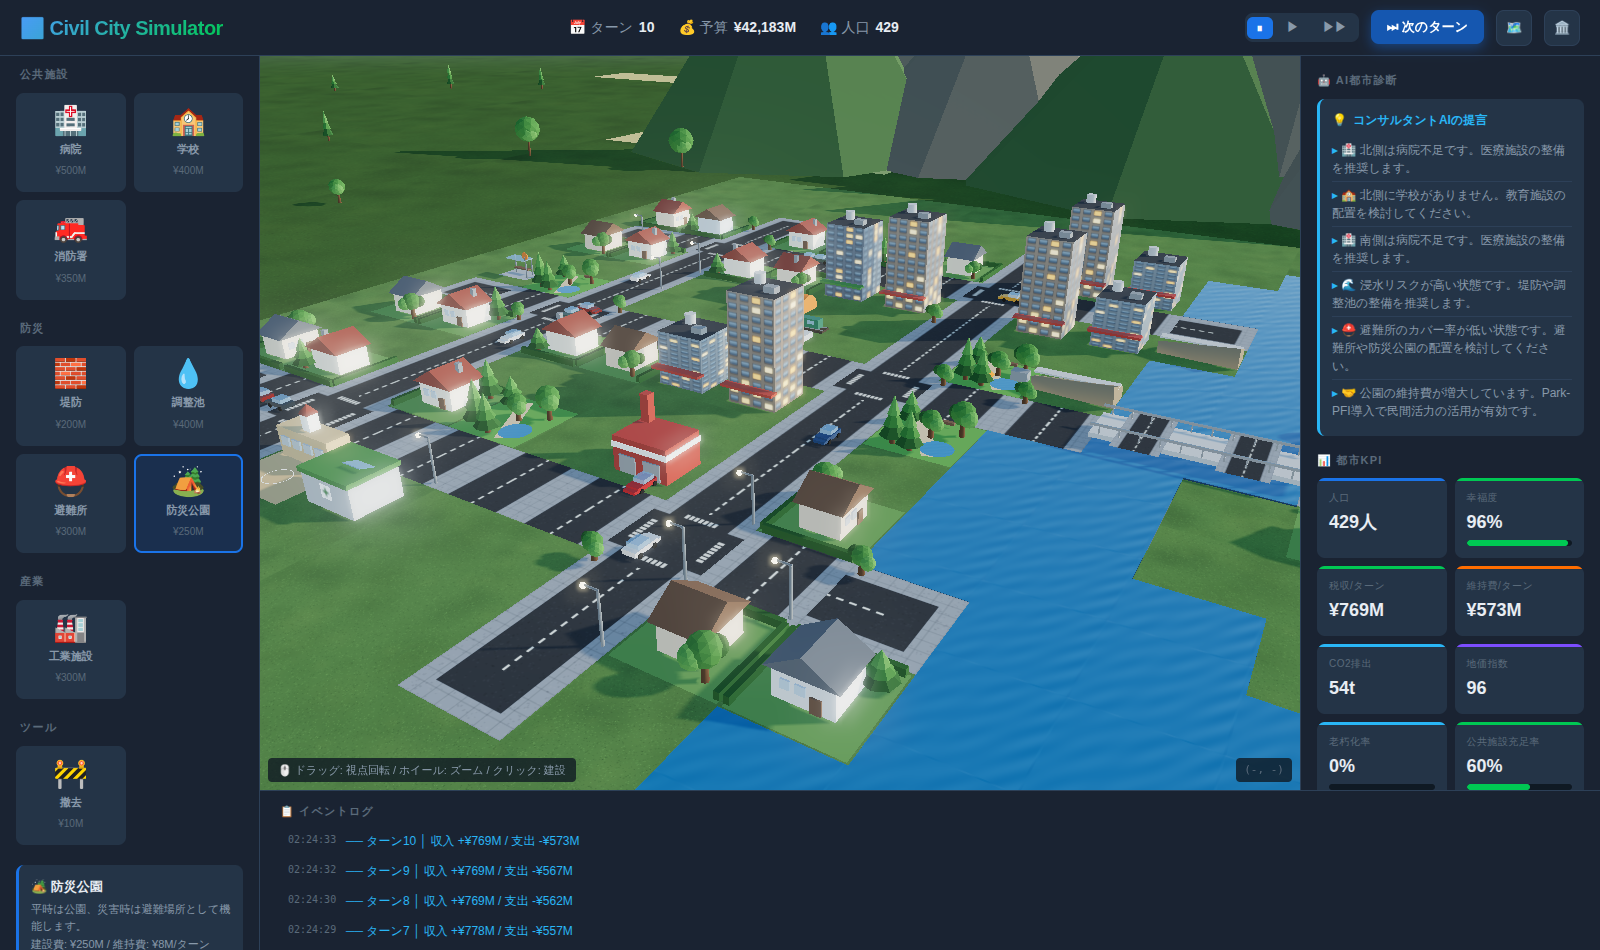
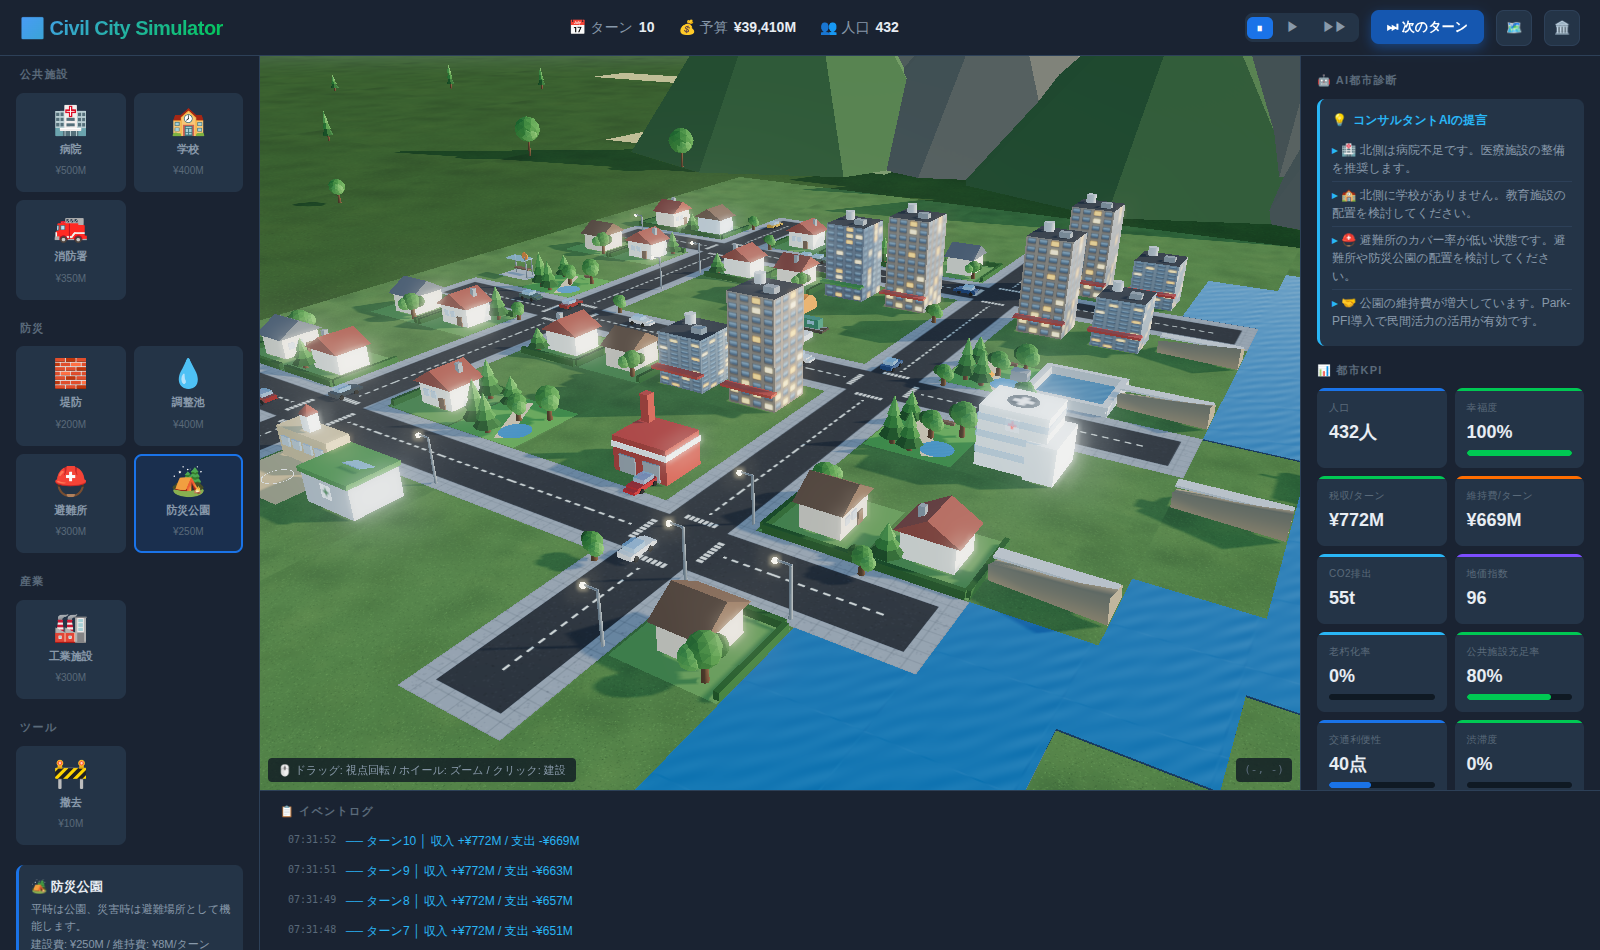
Fix road/bridge centerline orientation on E-W straight segments
E-W straight roads (mask=10) were rotated 90 degrees via
plane.rotation.z, which turned the already-correct horizontal
asphalt+centerline texture into a vertical one. Result: horizontal
roads rendered as a ladder of vertical bands with the dashed
centerline running perpendicular to the road.

The road texture is already drawn in grid space (N->N, E->E, etc.),
so no per-tile rotation is needed. Removed the mask===10 rotation.
Applied the same fix to the bridge deck surface, which had an
identical surf.rotation.z that made bridge centerlines run across
the deck instead of along it.

Verified all 16 connection masks (straight, corner, T, cross,
dead-end), long straight runs in both orientations, and bridges
render with centerlines aligned to the road direction.

Claude-Session: https://claude.ai/code/session_01XukzaxMYCwSbZ1dogLCiE5

diff --git a/civil-city-simulator/js/renderer3d.js b/civil-city-simulator/js/renderer3d.js
@@ -831,7 +831,6 @@ class Renderer3D {
       new THREE.MeshStandardMaterial({ map: makeRoadTexture(mask), roughness: 0.92 })
     );
     plane.rotation.x = -Math.PI / 2;
-    if (mask === 10) plane.rotation.z = Math.PI / 2;
     plane.position.y = 0.012;
     plane.receiveShadow = true;
     g.add(plane);
@@ -1345,7 +1344,6 @@ class Renderer3D {
       new THREE.MeshStandardMaterial({ map: makeRoadTexture(10), roughness: 0.92 })
     );
     surf.rotation.x = -Math.PI / 2;
-    surf.rotation.z = Math.PI / 2;
     surf.position.y = 0.17;
     g.add(surf);
     // 欄干(支柱つき)
